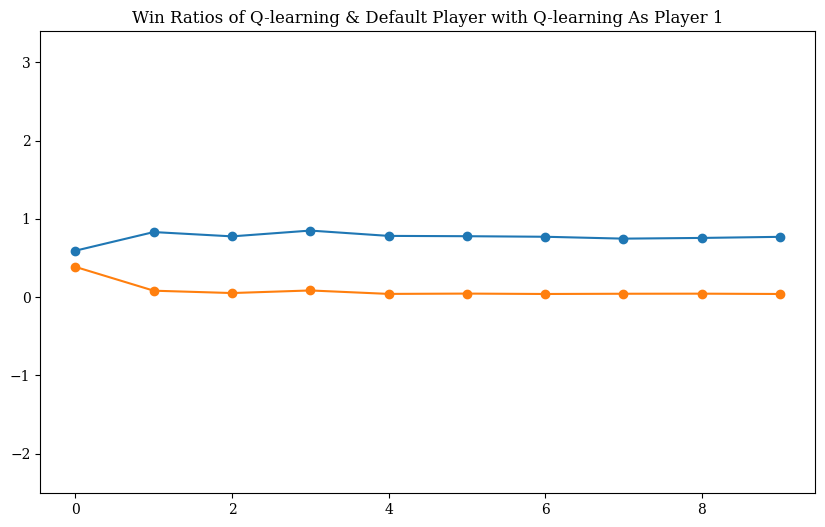
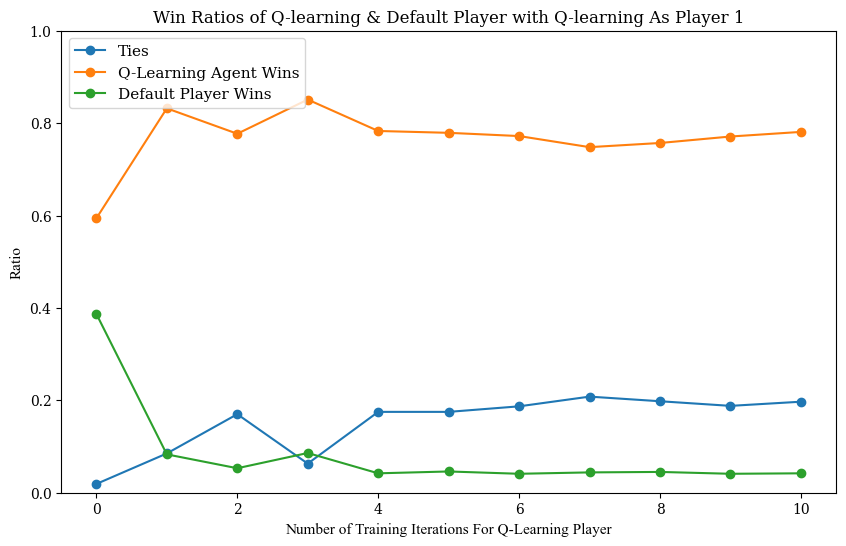
plots coming along well

diff --git a/Plot_results.py b/Plot_results.py
@@ -34,23 +34,27 @@ plt.close()
 
 # Q-learning vs Default
 df = pd.read_csv("Tictactoe_results/Q_learning_agent_P1_vs_Default Player_Results.csv")
-# Plot the data
 plt.figure(figsize=(10, 6))
-for column in df.columns[1:]:
-    plt.plot(df.index, df[column], label=column, marker='o')
-    plt.ylim(0, 1)
+plt.plot(df.index, df['Ties'], label="Ties", marker='o')
+plt.plot(df.index, df['Tictactoe_Q_learning_agent wins'], label="Q-Learning Agent Wins", marker='o')
+plt.plot(df.index, df['Default Player wins'], label="Default Player Wins", marker='o')
+plt.gca().set_ylim(0, 1)
+plt.legend(fontsize=11, loc='upper left', prop={'family': 'serif', 'size': 11})
 plt.title('Win Ratios of Q-learning & Default Player with Q-learning As Player 1', fontsize=12, fontfamily='serif')
-plt.axis('equal')
+plt.xlabel('Number of Training Iterations For Q-Learning Player', fontsize=11, fontname='Times New Roman')
+plt.ylabel('Ratio', fontsize=11, fontname='Times New Roman')
 plt.savefig('Plots/Q_learning_agent_P1_vs_Default.png', bbox_inches='tight')
-#plt.show()
 plt.close()
 
 df = pd.read_csv("Tictactoe_results/Q_learning_agent_P2_vs_Default Player_Results.csv")
-for column in df.columns[1:]:
-    plt.plot(df.index, df[column], label=column, marker='o')
-plt.ylim(.5, 1)
+plt.figure(figsize=(10, 6))
+plt.plot(df.index, df['Ties'], label="Ties", marker='o')
+plt.plot(df.index, df['Tictactoe_Q_learning_agent wins'], label="Q-Learning Agent Wins", marker='o')
+plt.plot(df.index, df['Default Player wins'], label="Default Player Wins", marker='o')
+plt.ylim(0, 1)
+plt.legend(fontsize=11, loc='upper left', prop={'family': 'serif', 'size': 11})
 plt.title('Win Ratios of Q-learning & Default Player with Q-learning As Player 2', fontsize=12, fontfamily='serif')
-plt.axis('equal')
+plt.xlabel('Number of Training Iterations For Q-Learning Player', fontsize=11, fontname='Times New Roman')
+plt.ylabel('Ratio', fontsize=11, fontname='Times New Roman')
 plt.savefig('Plots/Q_learning_agent_P2_vs_Default.png', bbox_inches='tight')
-#plt.show()
 plt.close()
